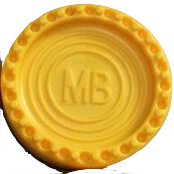
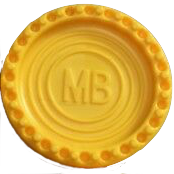
Add dropping animation

Changed region(s): [[0.0, 0.5172, 0.6322, 1.0], [0.0, 0.3161, 0.0287, 0.431], [0.6897, 0.977, 0.7471, 1.0]]

diff --git a/src/components/Square/index.css b/src/components/Square/index.css
@@ -22,6 +22,11 @@
   animation-iteration-count: infinite;
 }
 
+@keyframes drop {
+  0% { background-position: top -55px center }
+  100% { background-position: center }
+}
+
 .Token {
   position: absolute;
   z-index:-1;
@@ -30,6 +35,8 @@
   background-size: 90% 90%;
   width: 100%;
   height: 100%;
+  animation-name: drop;
+  animation-duration: 0.6s;
 }
 
 .Token--p1 {
